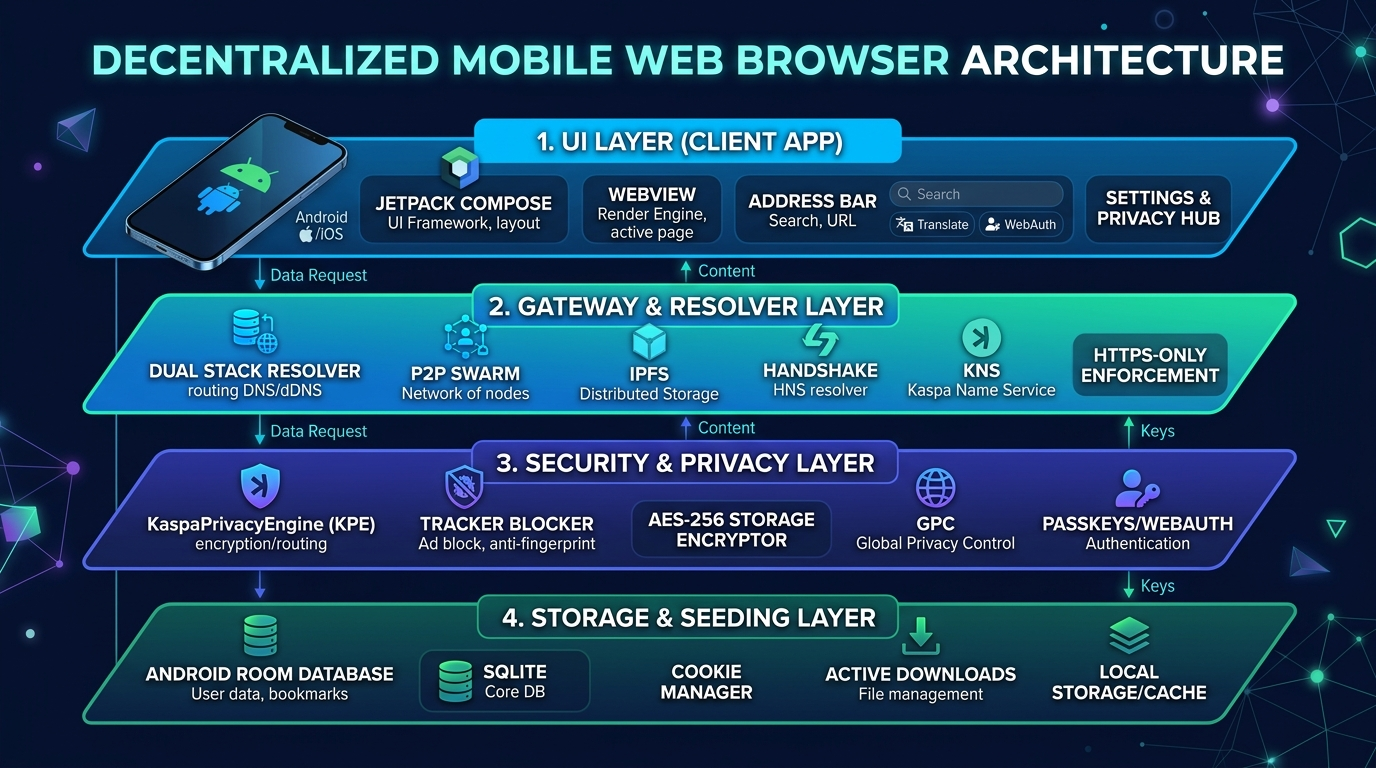
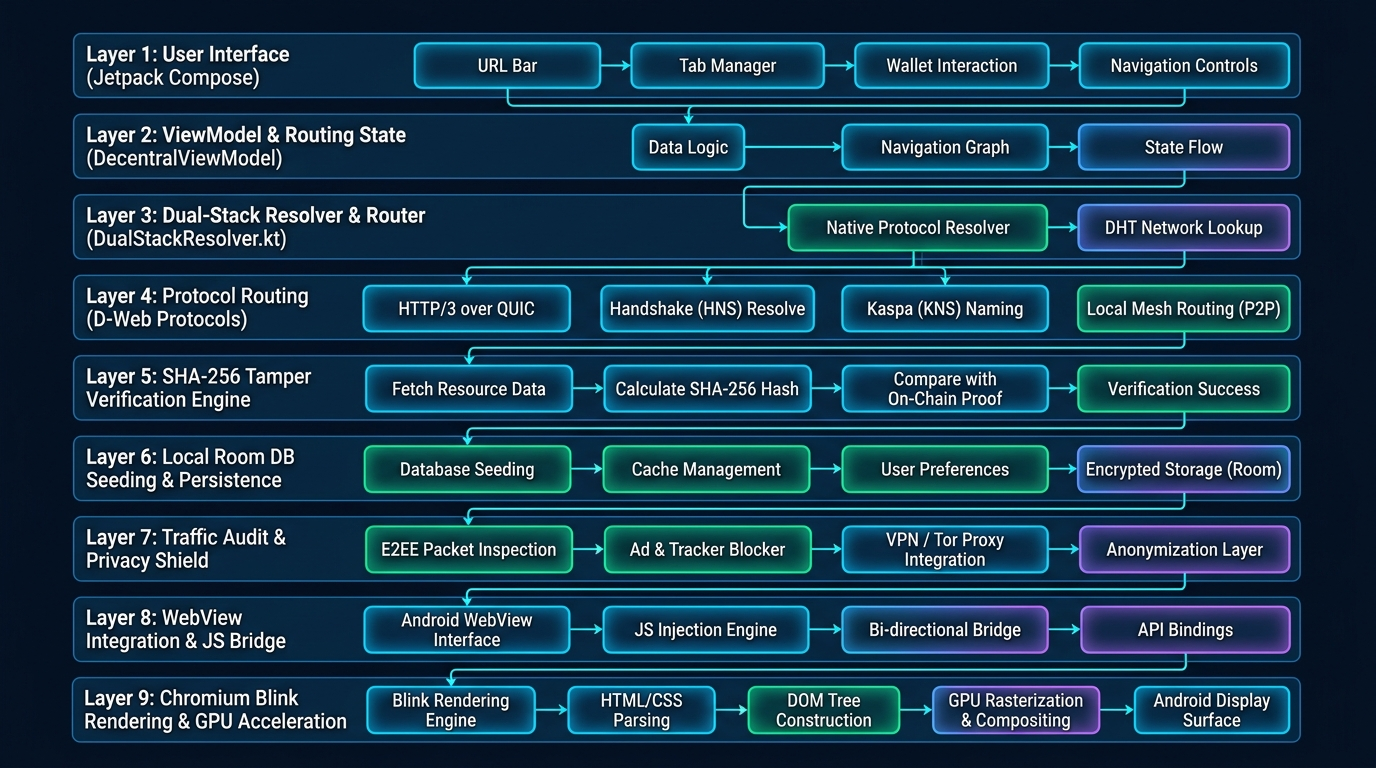
Check ✅

diff --git a/README.md b/README.md
@@ -11,6 +11,12 @@
 
 ---
 
+## 🎨 Component Visual Identity & Brand Logo Color Palette
+
+![KaspaBrowser Brand Palette](brand_palette.jpg)
+
+---
+
 ## ✨ Newly Added Production Features
 
 1. **Unified Settings & Privacy Hub (`TrafficAuditScreen.kt`)**:
